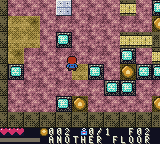
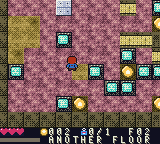
Title: latch presses during the world build, measure the return walk, shots of the running title

diff --git a/test/harness/play.py b/test/harness/play.py
@@ -416,17 +416,18 @@ def run_death(g: Game, out: Path, report: dict) -> bool:
         report["death_back_to_title"] = g.wait_mode(MODE_TITLE, 600)
         if report["death_back_to_title"] and out is not None:
             # the 3D title again after a run: it re-inits its memory, walks a new seed, and START plays again
-            v0 = g.peek16("t3d_nviews")
-            g.tick(150)
+            g.tick(150)  # the title zeroes its counters on entry: measure once it walks
             g.shot(out / "b1_title_return.png")
-            report["title_return_views"] = (g.peek16("t3d_nviews") - v0) & 0xFFFF
+            v0 = g.peek16("t3d_nviews")
+            g.tick(120)
+            report["title_return_views"] = (g.peek16("t3d_nviews") - v0) & 0xFFFF  # ~48 at 24 fps
             report["title_return_seed"] = f"{g.peek16('t3d_seed'):04X}"
             for _ in range(40):
                 g.press("start")
                 if g.wait_mode(MODE_PLAY, 20):
                     break
             report["title_return_plays"] = g.peek("game_mode") == MODE_PLAY
-            took = took and report["title_return_views"] > 40 and report["title_return_plays"]
+            took = took and 36 < report["title_return_views"] < 80 and report["title_return_plays"]
     return took
 
 
@@ -616,9 +617,8 @@ def main() -> int:
         g.shot(a.out / "01_boot_keel.png")
         report["boot_mode_at_150"] = g.peek("game_mode")
         results["boot"] = g.wait_mode(MODE_TITLE, 1500)
-        g.tick(60)
-        g.shot(a.out / "02_title.png")
         results["title3d"] = title3d.title_pass(g, a.out, report, a.t3d_host)
+        g.shot(a.out / "02_title.png")  # the walk, well under way
         if a.audio:
             g.audio.clear()
             g.tick(60 * 20)

diff --git a/src/title3d/t3d_core.c b/src/title3d/t3d_core.c
@@ -26,6 +26,8 @@ uint8_t t3d_scx[4];
 uint8_t t3d_glitch;
 volatile uint8_t t3d_sound;
 volatile uint8_t t3d_buzz;
+volatile uint8_t t3d_keys; /* START, A, SELECT pressed (edges) since the main loop last took them */
+static uint8_t keys_prev;
 uint16_t t3d_nviews, t3d_nflips;
 uint8_t t3d_stack[T3D_STACK];
 uint16_t t3d_saved_sp;
@@ -118,6 +120,11 @@ static void t3d_vbl_isr(void) NONBANKED {
     t3d_pend = 0;
   }
   VBK_REG = vbk;
+  {
+    uint8_t j = joypad();
+    t3d_keys |= (uint8_t)(j & (uint8_t)~keys_prev & (J_START | J_A | J_SELECT));
+    keys_prev = j;
+  }
   if (t3d_sound) sound_tick();
   if (t3d_buzz) {
     /* the fluorescent buzz: a short, quiet, low 7-bit noise tone on channel 4 (the music takes it back at its next
@@ -197,6 +204,8 @@ static void t3d_lcd_isr(void) NONBANKED {
 
 void t3d_isr_on(void) NONBANKED {
   front = (LCDC_REG & LCDCF_BG9C00) ? 1u : 0u;
+  keys_prev = joypad(); /* a button still held from the last screen is not a press */
+  t3d_keys = 0;
   CRITICAL {
     add_VBL(t3d_vbl_isr);
     add_LCD(t3d_lcd_isr);

diff --git a/src/title3d/title3d.c b/src/title3d/title3d.c
@@ -633,11 +633,12 @@ void title3d_main(void) BANKED {
     }
     /* START (or A) plays; SELECT opens SETUP; both fade out over the walk */
     if (!out) {
-      uint8_t j = joypad();
-      if (vlevel >= 16u && (j & (J_START | J_A))) {
+      uint8_t j = vlevel >= 16u ? t3d_keys : 0u; /* a press while the world builds waits for the view */
+      if (j) t3d_keys = 0;
+      if (j & (J_START | J_A)) {
         out = T3D_START;
         sound_call(1);
-      } else if (vlevel >= 16u && (j & J_SELECT)) {
+      } else if (j & J_SELECT) {
         out = T3D_SELECT;
         sound_call(2);
       }

diff --git a/src/title3d/t3d.h b/src/title3d/t3d.h
@@ -80,6 +80,7 @@ extern uint8_t t3d_scx[4];             /* logo slice scroll (glitch) for lines 0
 extern uint8_t t3d_glitch;             /* nonzero: run the slice chain */
 extern volatile uint8_t t3d_sound;     /* the VBlank ISR ticks the sound driver */
 extern volatile uint8_t t3d_buzz;      /* the VBlank ISR plays the fluorescent buzz once */
+extern volatile uint8_t t3d_keys;      /* new presses latched by the VBlank ISR (so none is lost while the world builds) */
 extern uint16_t t3d_nviews, t3d_nflips;
 extern uint8_t t3d_stack[T3D_STACK];
 
